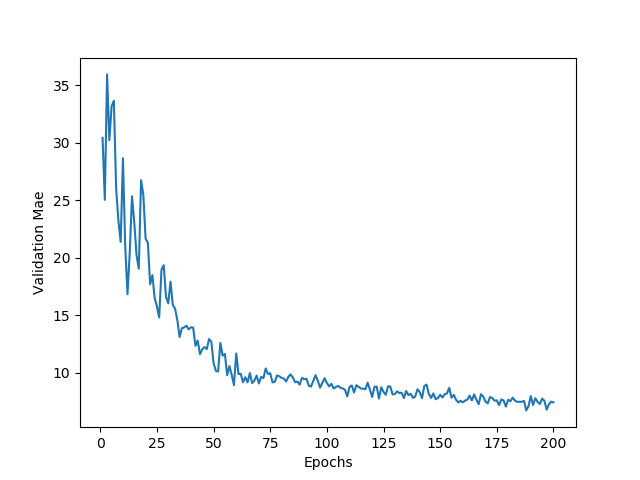
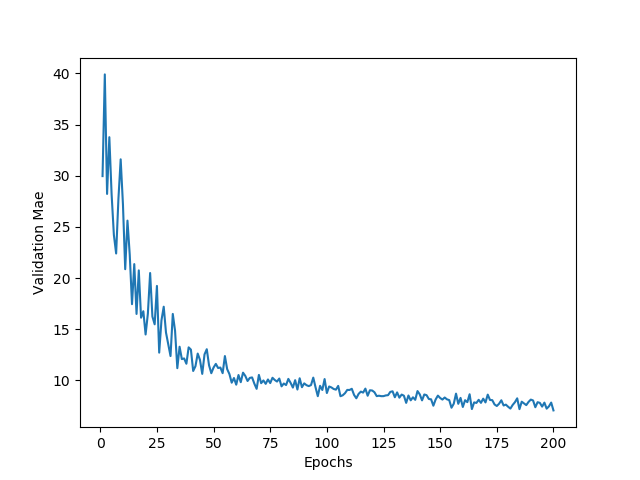
Update

diff --git a/fine_tune.py b/fine_tune.py
@@ -1,46 +1,11 @@
 import numpy as np
 import matplotlib.pyplot as plt
 import pandas as pd
-from keras import models
-from keras.layers.core import Dense, Activation, Dropout
-from keras.layers.noise import AlphaDropout
-from keras.layers import GaussianNoise
 from keras.models import load_model
-from keras.callbacks import ModelCheckpoint
 from sklearn.model_selection import train_test_split
 
 
-def build_model(n_dense=6,
-                dense_units=16,
-                activation='selu',
-                dropout=AlphaDropout,
-                dropout_rate=0.1,
-                kernel_initializer='lecun_normal',
-                optimizer='rmsprop',
-                num_classes=1, ):
-    model = models.Sequential()
-
-    model.add(Dense(dense_units,
-                    input_shape=(train_data.shape[1],),
-                    kernel_initializer=kernel_initializer,
-                    ))
-    model.add(Activation(activation))
-    model.add(dropout(dropout_rate))
-    for i in range(n_dense - 1):
-        model.add(Dense(dense_units, kernel_initializer=kernel_initializer))
-        model.add(Activation(activation))
-        model.add(GaussianNoise(0.01))
-        model.add(dropout(dropout_rate))
-
-    model.add(Dense(num_classes))
-    model.add(Activation(activation))
-    model.compile(loss='mae',
-                  metrics=['mae'],
-                  optimizer=optimizer)
-
-    return model
-
-
+model = load_model('./tmp.hdf5')
 X = pd.read_csv('./info/forex_signals_clean.csv', header=None)
 y = pd.read_csv('./info/USD_NTD_Rate_Clean.csv', header=None)
 train_data, test_data, train_targets, test_targets = train_test_split(X, y, test_size=0.2, random_state=4)
@@ -64,7 +29,7 @@ for i in range(k):
         [train_targets[: i * num_val_samples],
          train_targets[(i + 1) * num_val_samples:]],
         axis=0)
-    model = build_model()
+    model =  load_model('./tmp.hdf5')
     history = model.fit(partial_train_data,
                         partial_train_targets,
                         validation_data=(val_data, val_targets),
@@ -75,31 +40,21 @@ for i in range(k):
     all_mae_histories.append(mae_history)
     average_mae_history = [np.mean([x[i] for x in all_mae_histories]) for i in range(num_epochs)]
 
-# +++++++++++++++++ callback
-model_ckpt = ModelCheckpoint(filepath='./tmp.hdf5',
-                             monitor='val_mean_absolute_error',
-                             save_best_only=False,
-                             mode='auto')
-
 # +++++++++++++++++ triaining final model
-model = build_model()
 model.summary()
 model.fit(train_data,
           train_targets,
-          epochs=500,
+          epochs=20000,
           batch_size=16,
-          verbose=1,
-          callbacks=[model_ckpt])
+          verbose=1,)
 
 test_mae, _ = model.evaluate(test_data, test_targets)
 print('Test MAE:', test_mae)
 
-pred_final = load_model('./tmp.hdf5')
 pred_loadback = model.predict(test_data)
 print(pred_loadback)
 # +++++++++++++++++ matplotlib
 plt.plot(range(1, len(average_mae_history) + 1), average_mae_history)
 plt.xlabel('Epochs')
 plt.ylabel('Validation Mae')
-plt.savefig('./info/training_result_mae.png')
-
+plt.savefig('./info/training_result_mae_final02.png')
